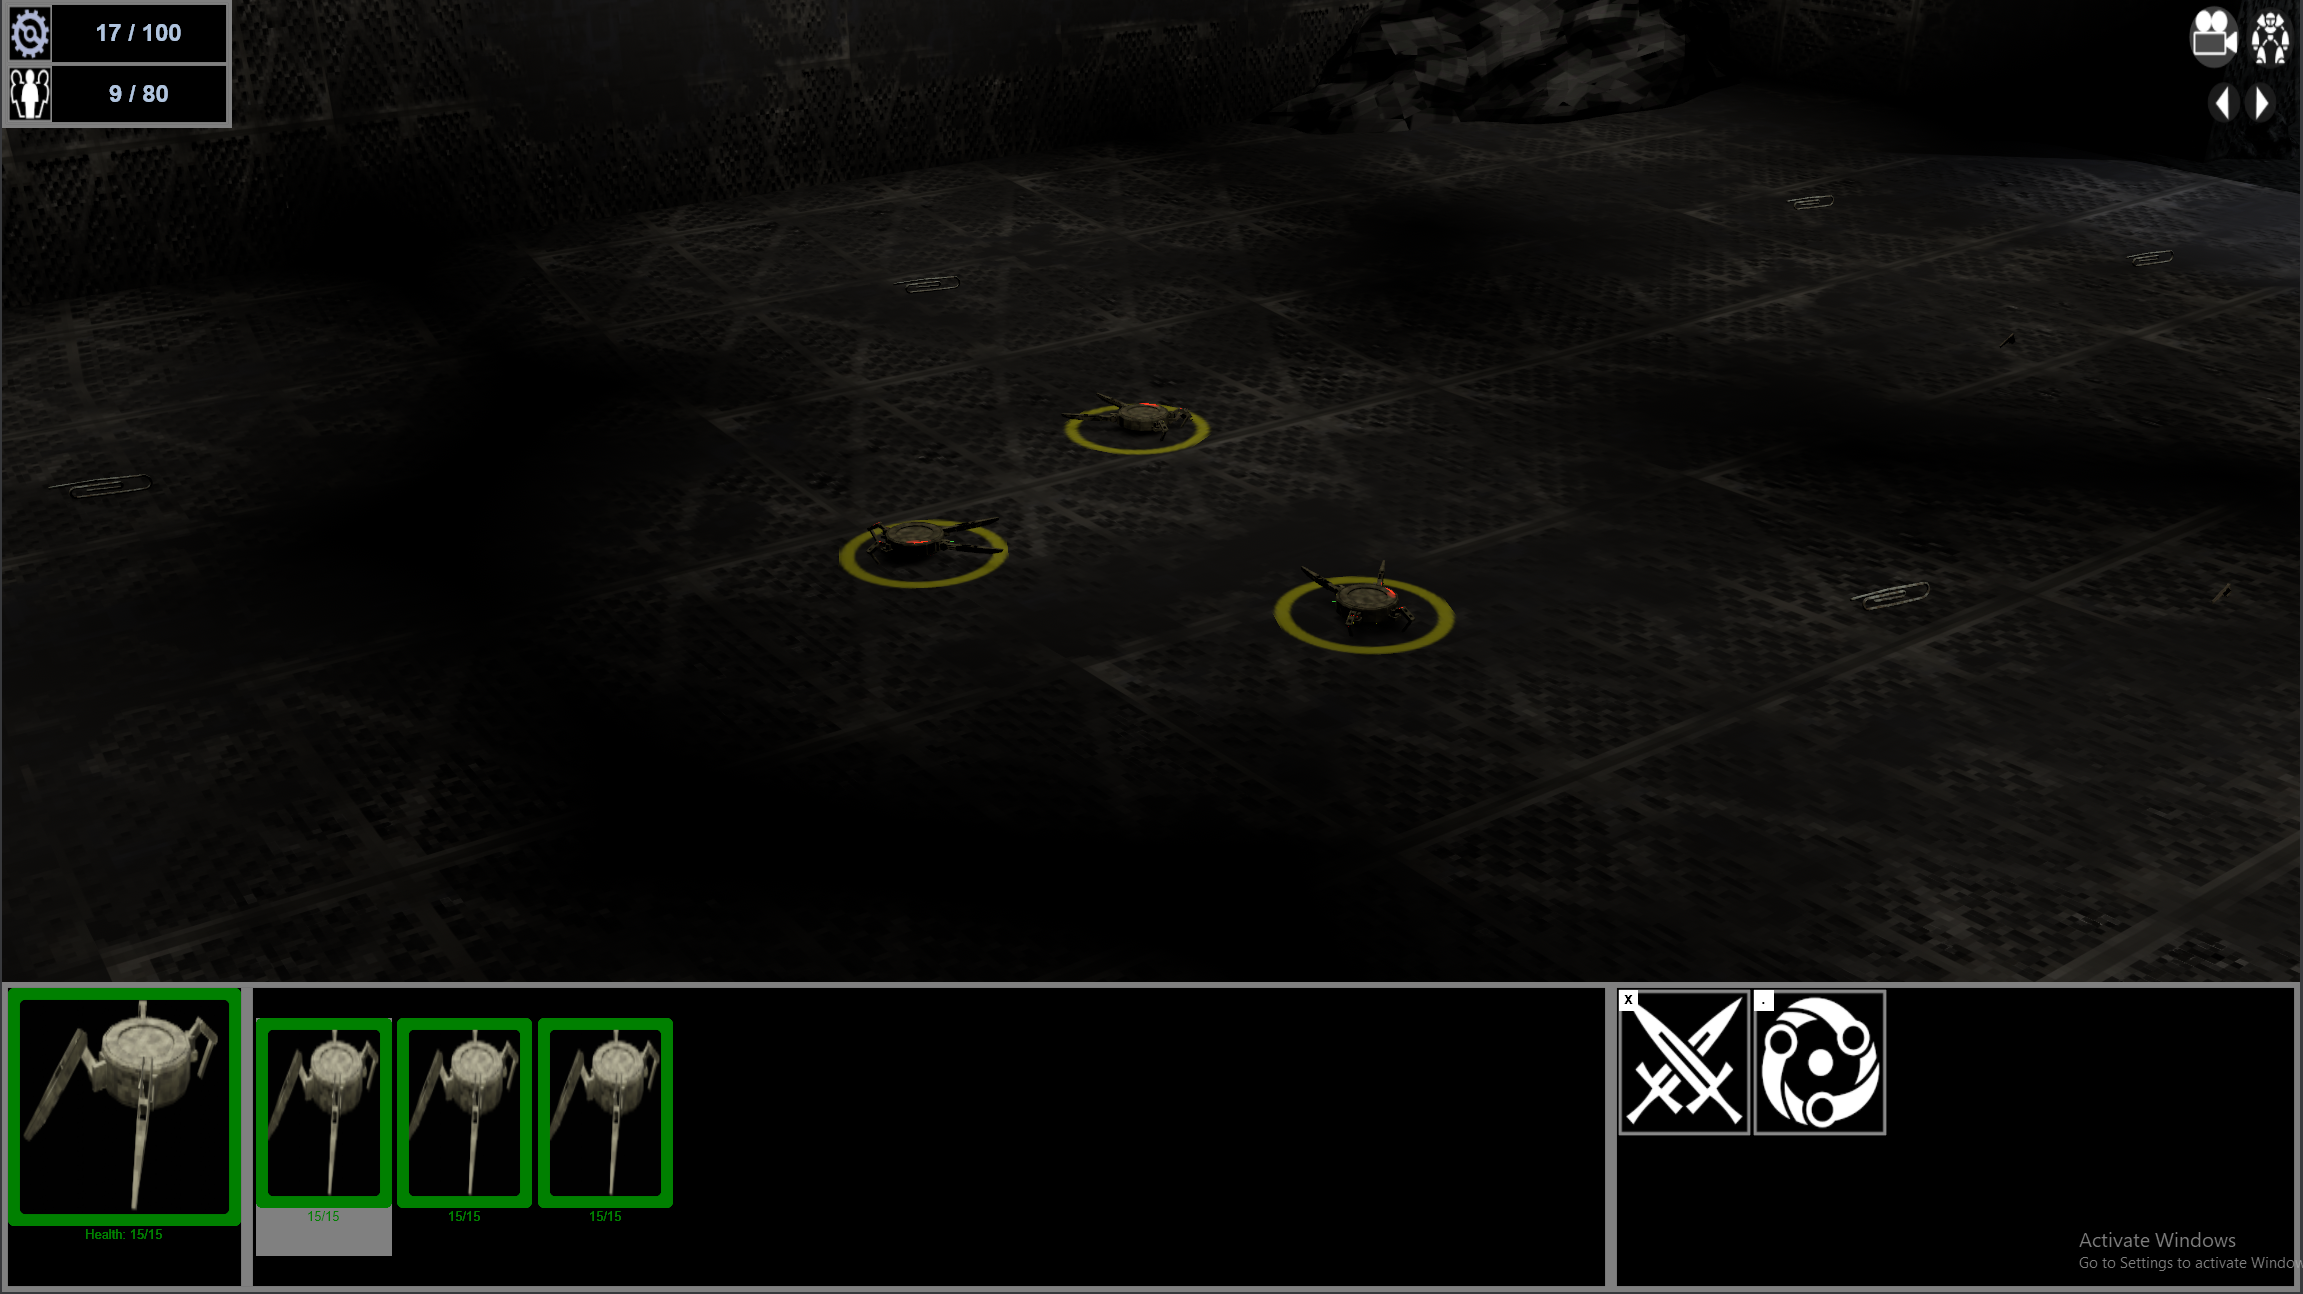
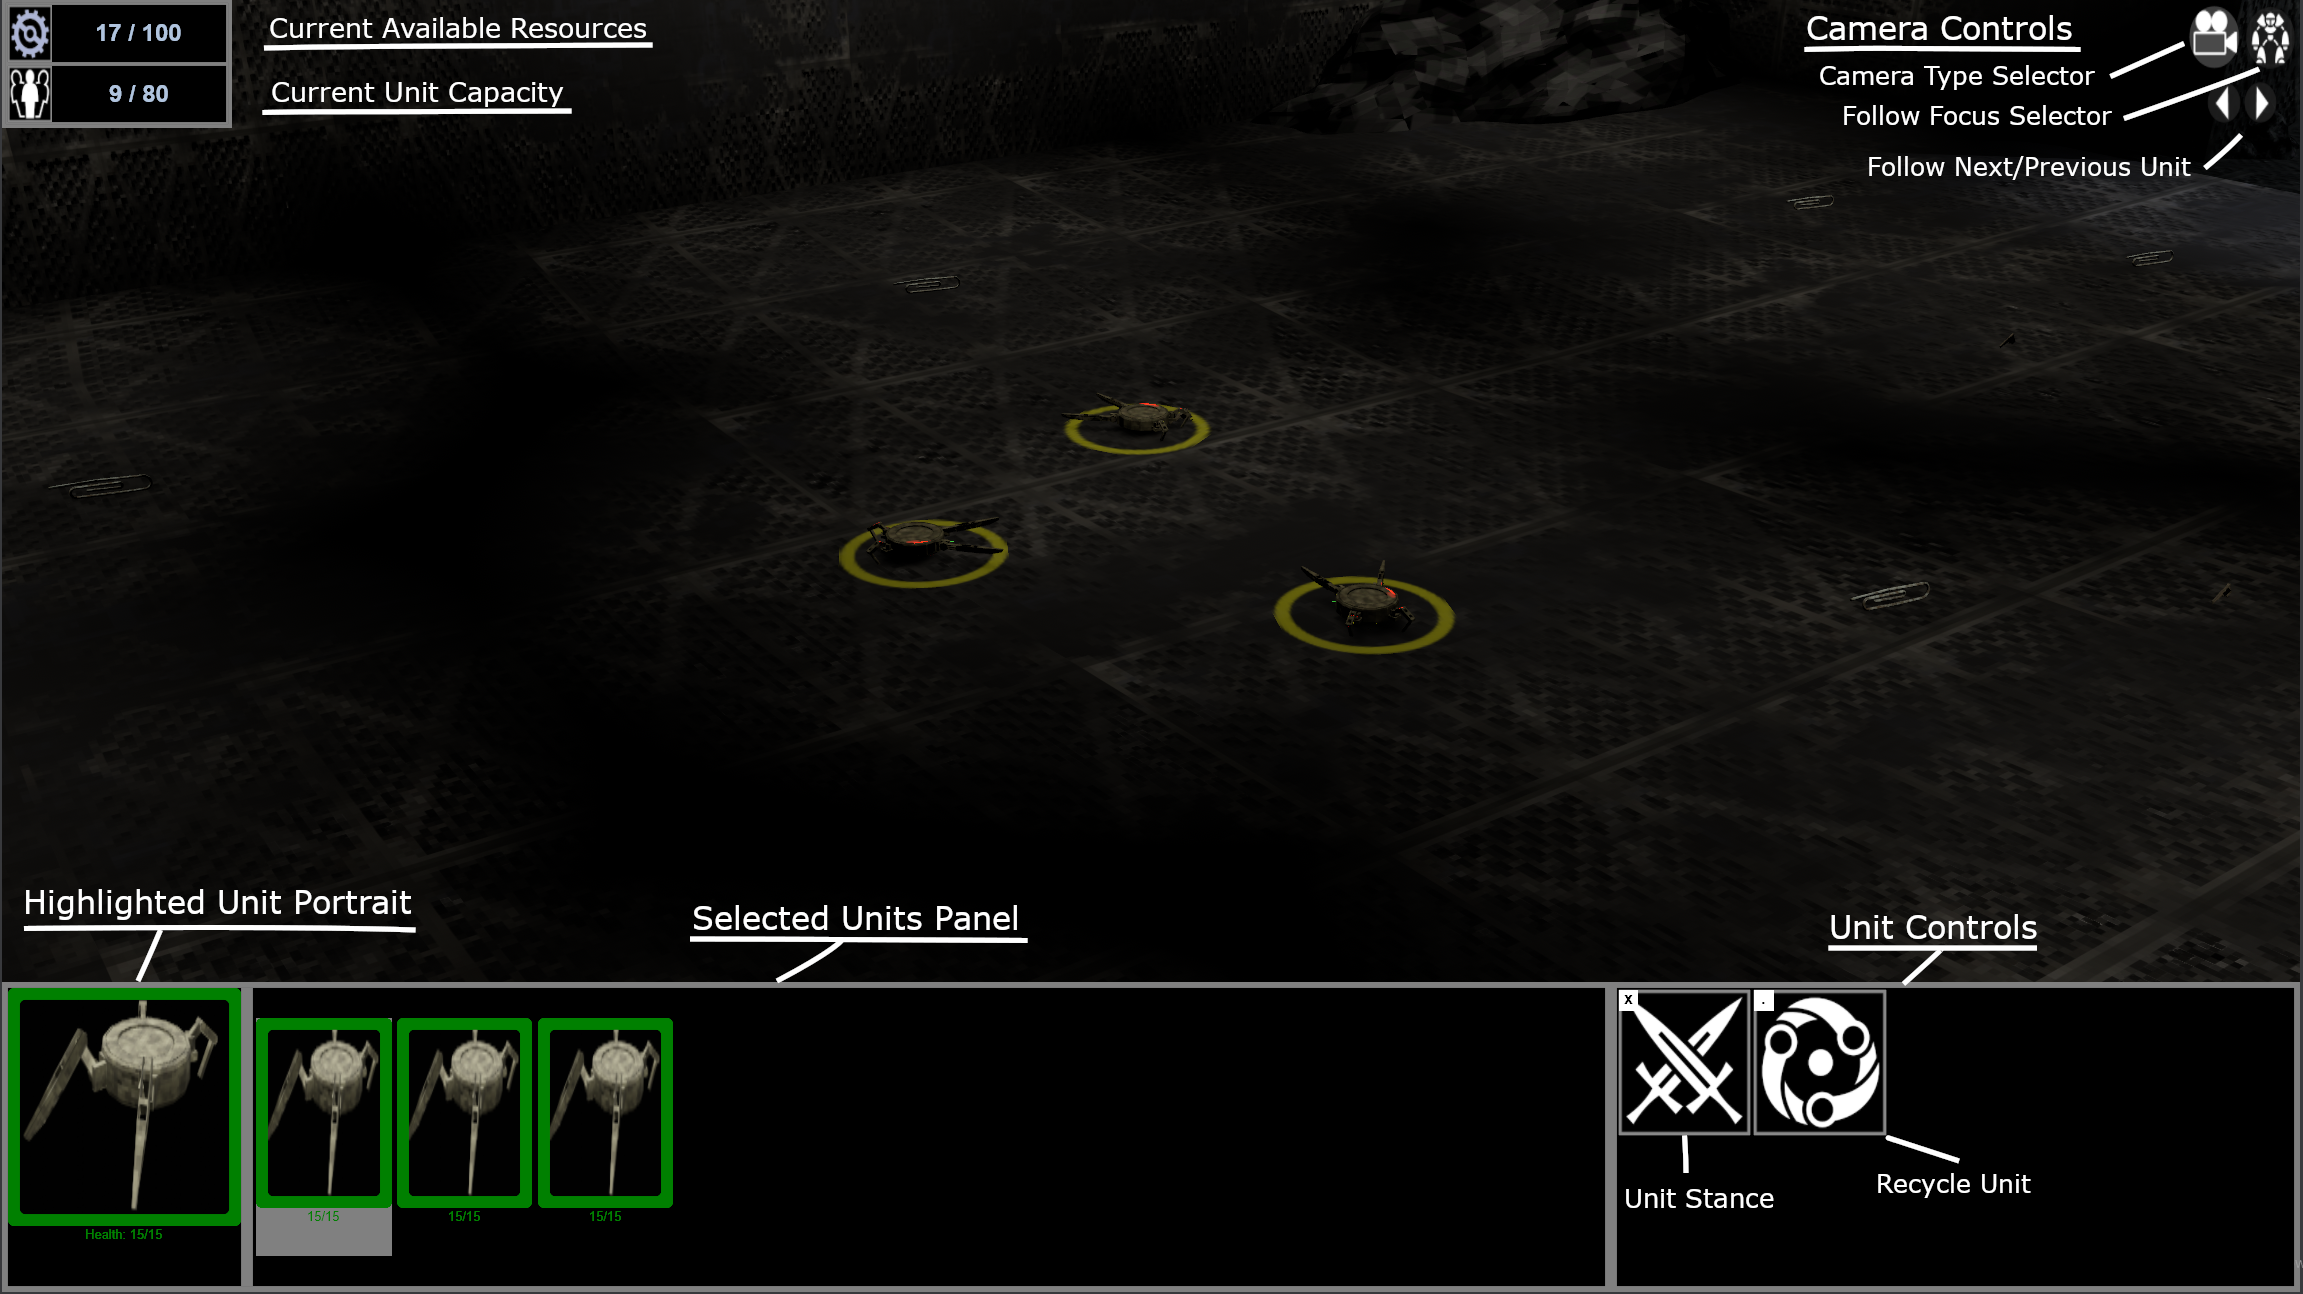
Added help screen with glyphs

diff --git a/code/SIUHelpPanel.razor.scss b/code/SIUHelpPanel.razor.scss
@@ -35,17 +35,27 @@ SIUHelpPanel {
 }
 
 .movementGlyphs {
-    height: 20%;
+    height: 30%;
     width: 20%;
-    bottom: 35%;
-    left: 5%;
+    bottom: 50%;
+    left: 3%;
     position: absolute;
     flex-direction: column;
     align-items: center;
 }
 
+.glyphsLabel {
+    height: 33%;
+    width: 100%;
+    font-size: 60px;
+    align-items: center;
+    justify-content: center;
+    color: white;
+    font-family: sans-serif, Arial;
+}
+
 .forwardButtonGlyph {
-    height: 50%;
+    height: 33%;
     width: 33%;
     //background-repeat: no-repeat;
     //background-size: 100% 100%;
@@ -53,17 +63,100 @@ SIUHelpPanel {
 }
 
 .botMoveGlyphPanel {
-    height: 50%;
+    height: 33%;
     width: 100%;
     align-items: center;
     justify-content: space-between;
     flex-shrink: 4;
 }
 
-botMoveGlyph {
+.botMoveGlyph {
     height: 100%;
     width: 33%;
     flex-shrink: 4;
     background-repeat: no-repeat;
     background-size: 100% 100%;
+}
+
+.rotGlyphPanel {
+    height: 30%;
+    width: 25%;
+    bottom: 30%;
+    right: 3%;
+    position: absolute;
+    flex-direction: column;
+    align-items: center;
+}
+
+.pitchGlyphPanel {
+    height: 30%;
+    width: 25%;
+    bottom: 53%;
+    right: 3%;
+    position: absolute;
+    flex-direction: column;
+    align-items: center;
+}
+
+.twoGlyphs {
+    height: 40%;
+    width: 50%;
+    left: 16.5%;
+    align-items: center;
+    justify-content: space-between;
+    flex-shrink: 4;
+}
+
+.halfGlyph {
+    height: 100%;
+    width: 50%;
+    background-repeat: no-repeat;
+    background-size: 100% 100%;
+}
+
+.selectGlyphPanel {
+    height: 20%;
+    width: 20%;
+    bottom: 32%;
+    left: 30%;
+    position: absolute;
+    flex-direction: column;
+    align-items: center;
+}
+
+.oneGlyph {
+    height: 60%;
+    width: 50%;
+    background-repeat: no-repeat;
+    background-size: 100% 100%;
+}
+
+.commandGlyphPanel {
+    height: 20%;
+    width: 20%;
+    bottom: 32%;
+    left: 45%;
+    position: absolute;
+    flex-direction: column;
+    align-items: center;
+}
+
+.weaponGlyphPanel {
+    height: 25%;
+    width: 25%;
+    bottom: 32%;
+    right: 1%;
+    position: absolute;
+    flex-direction: column;
+    align-items: center;
+}
+
+.reloadGlyphPanel {
+    height: 18%;
+    width: 13%;
+    bottom: 60%;
+    right: 7%;
+    position: absolute;
+    flex-direction: column;
+    align-items: center;
 }
